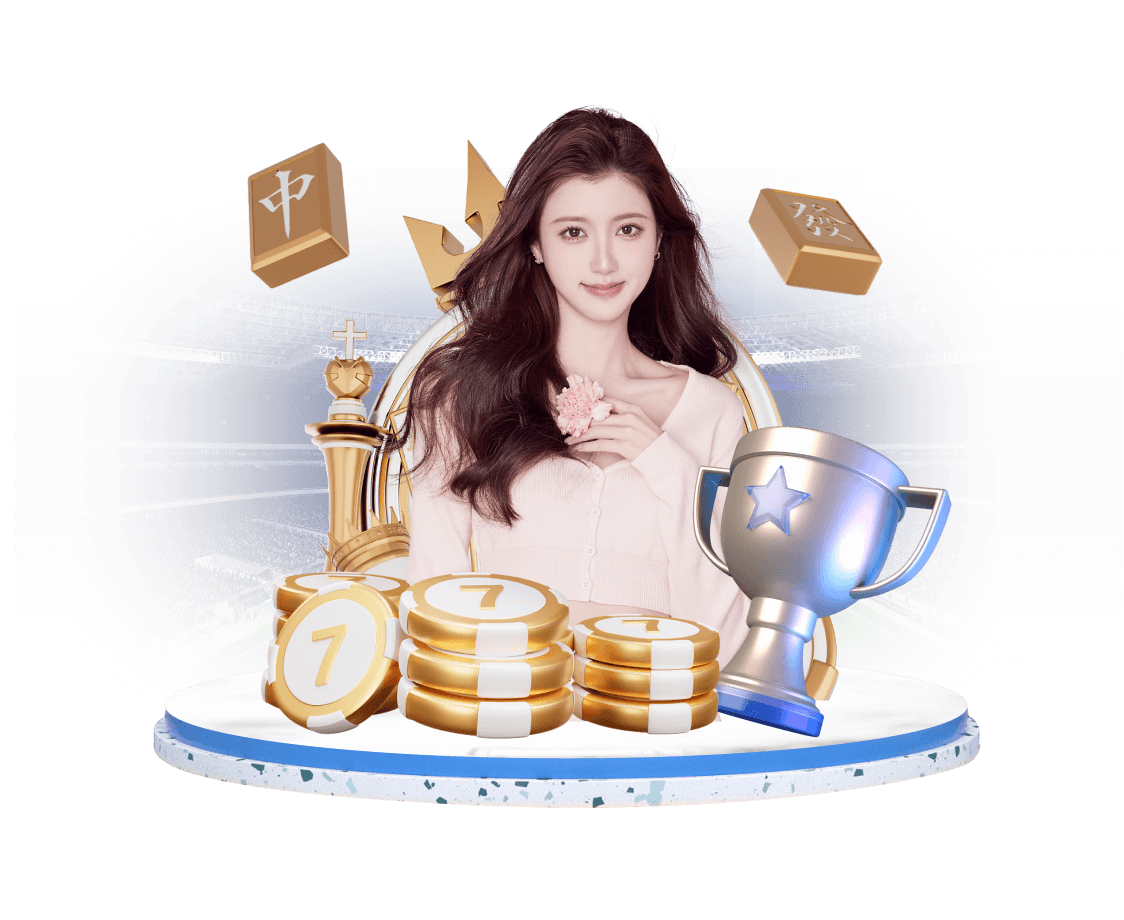
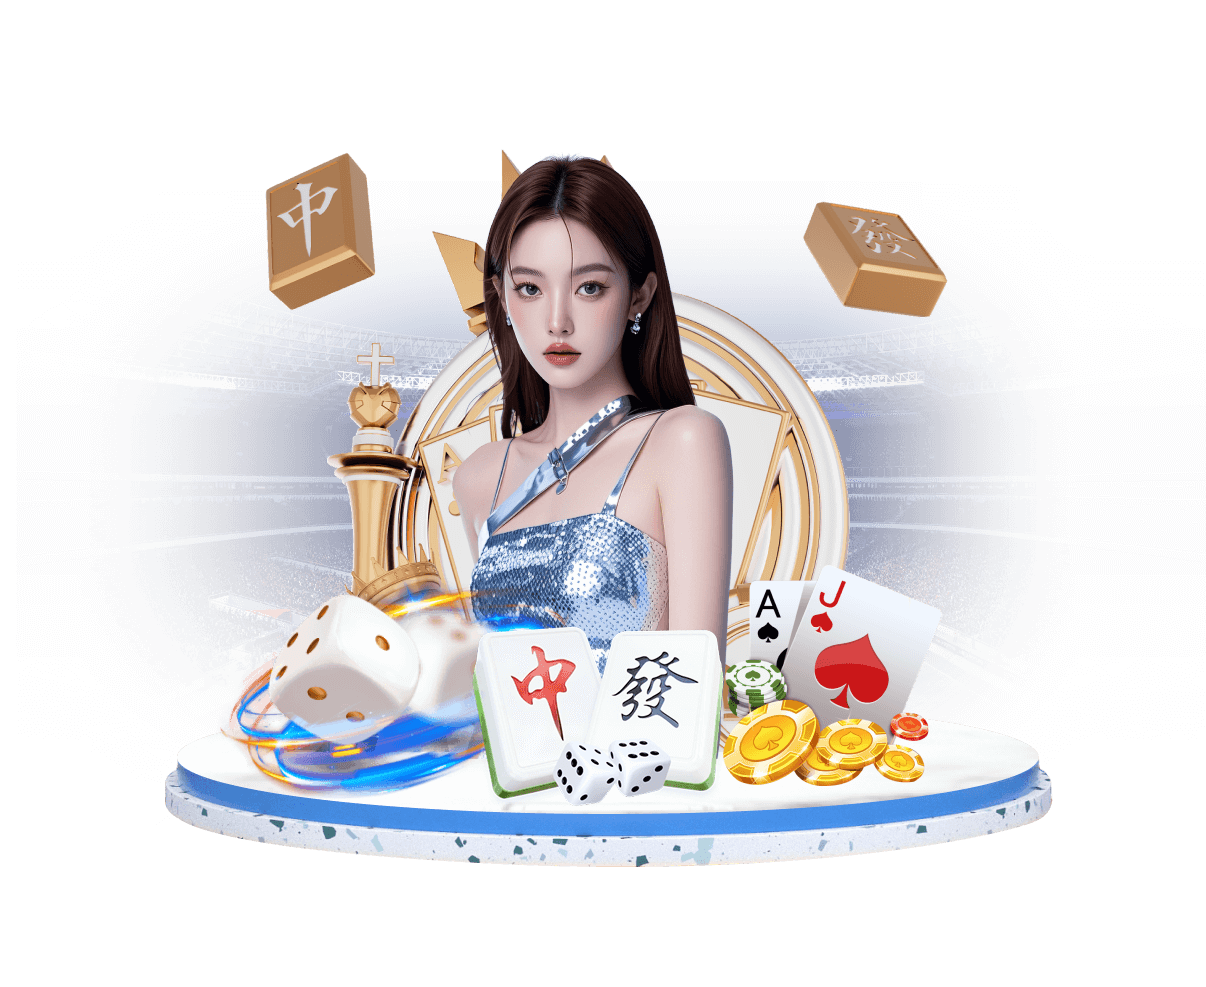
feat: LH IOmages

Changed region(s): [[0.1868, 0.0913, 0.8407, 0.8522]]

diff --git a/lh-static-web/src/shared/platformArray.js b/lh-static-web/src/shared/platformArray.js
@@ -92,6 +92,15 @@ export const liveCasinoPlatforms = [
     message: "百家乐、骰宝、轮盘、牛牛、炸金花等多款真人视讯游戏，多位真人荷官全年无休的紧密互动，最美荷官在线互动。",
     caption: "",
     gameCode: ""
+  },
+  {
+    code: "EEAI",
+    cnname: "EEAI真人",
+    image: "eeai",
+    message:
+      "EEAI真人带你畅玩百家乐、骰宝、轮盘、牛牛、炸金花等多款热门真人视讯游戏，最美荷官实时在线陪伴，让你感受最真实的现场魅力！",
+    caption: "",
+    gameCode: ""
   }
 ];
 
